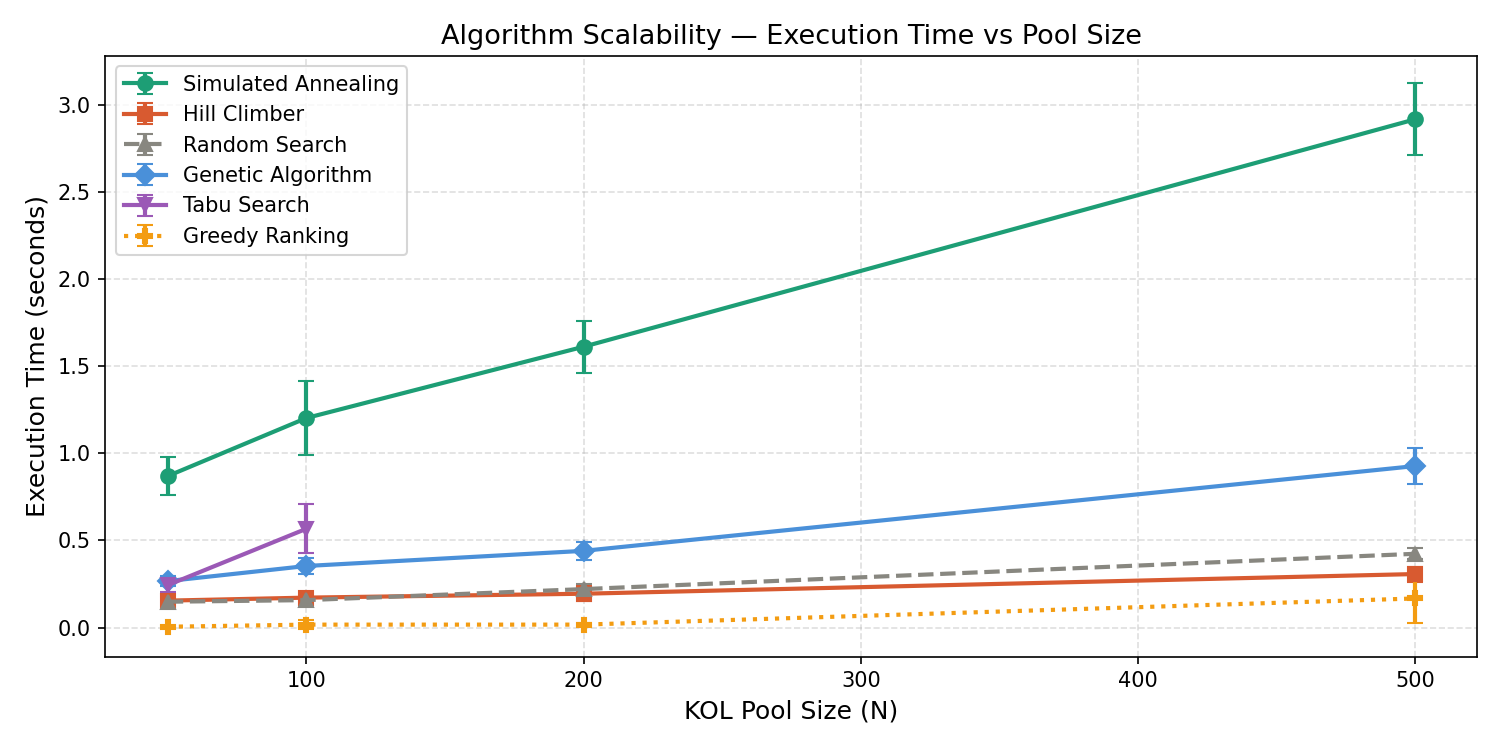
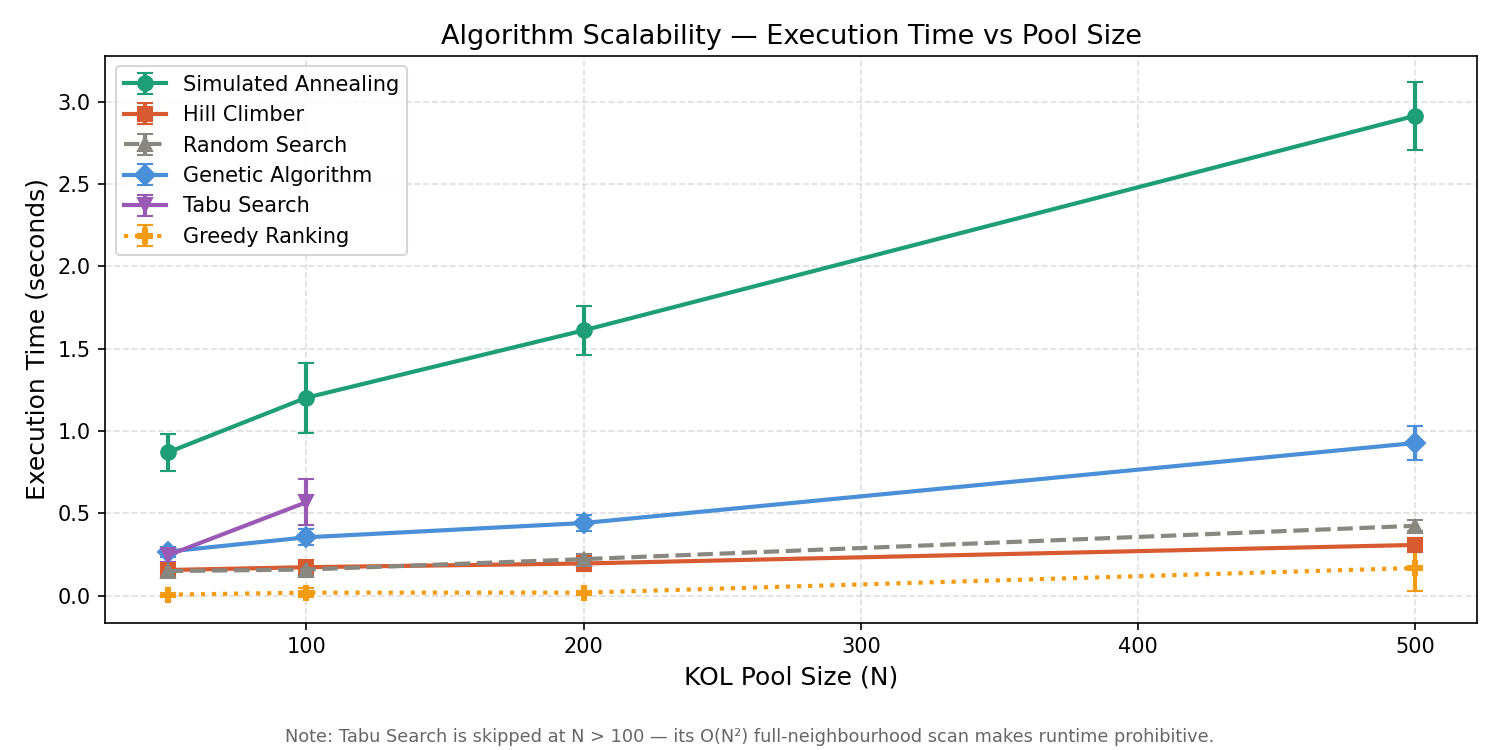
docs(figures): label convergence charts "Best Objective"; annotate TS skip
- The convergence figures plot the search objective (GMV − overlap penalty), not
  raw GMV — relabel the y-axis on convergence.png (run_comparison.py) and
  convergence_panels.png (gen_figures.py) to "Best Objective" so the axis matches
  what's drawn and §3.5's explanation.
- Scalability figures now carry a footnote: "Tabu Search is skipped at N > 100 —
  its O(N²) full-neighbourhood scan makes runtime prohibitive."
- Refactor scalability.py to split benchmark-run from plotting and add a
  `--plot-only` path that regenerates the figures from the existing CSV, so
  restyling never re-runs the wall-clock-noisy benchmark (reported times stay put).

Figures regenerated from existing data; 128 tests pass.

diff --git a/experiments/scalability.py b/experiments/scalability.py
@@ -80,6 +80,82 @@ def run_one(algo_fn, kols, budget, seed, **kwargs):
     return elapsed, gmv
 
 
+_CSV_PATH = "experiments/plots/scalability_results.csv"
+_TS_NOTE = ("Note: Tabu Search is skipped at N > 100 — its O(N²) full-neighbourhood "
+            "scan makes runtime prohibitive.")
+
+
+def _filtered(mean_vals, err_vals):
+    """Return (x, y, err) for the non-None entries, aligned to POOL_SIZES."""
+    xs, ys, es = [], [], []
+    for x, y, e in zip(POOL_SIZES, mean_vals, err_vals):
+        if y is not None:
+            xs.append(x); ys.append(y); es.append(e)
+    return xs, ys, es
+
+
+def _summary_from_csv(csv_path=_CSV_PATH):
+    """Rebuild the plotting `summary` from a results CSV, so figures can be
+    regenerated/restyled WITHOUT re-running the (wall-clock-noisy) benchmark."""
+    rows = {}
+    with open(csv_path, newline="", encoding="utf-8") as f:
+        for r in csv.DictReader(f):
+            rows[(r["Algorithm"], int(r["N"]))] = r
+
+    def _num(v):
+        try:
+            return float(v)
+        except (ValueError, TypeError):
+            return None
+
+    summary = {}
+    for algo_name in ALGO_CONFIGS:
+        summary[algo_name] = {
+            "mean_times": [_num(rows.get((algo_name, N), {}).get("Mean_Time_Sec")) for N in POOL_SIZES],
+            "std_times":  [_num(rows.get((algo_name, N), {}).get("Std_Time_Sec"))  for N in POOL_SIZES],
+            "mean_gmvs":  [_num(rows.get((algo_name, N), {}).get("Mean_GMV"))       for N in POOL_SIZES],
+            "std_gmvs":   [_num(rows.get((algo_name, N), {}).get("Std_GMV"))        for N in POOL_SIZES],
+        }
+    return summary
+
+
+def make_plots(summary):
+    """Render the execution-time and solution-quality figures from a summary."""
+    os.makedirs("experiments/plots", exist_ok=True)
+    os.makedirs("docs/figures", exist_ok=True)
+
+    panels = [
+        ("mean_times", "std_times", "Execution Time (seconds)",
+         "Algorithm Scalability — Execution Time vs Pool Size", None,
+         ["experiments/plots/scalability_time.png", "docs/figures/scalability_time.png"]),
+        ("mean_gmvs", "std_gmvs", "Mean Best GMV (USD)",
+         "Algorithm Scalability — Solution Quality vs Pool Size",
+         plt.FuncFormatter(lambda x, _: f"${x:,.0f}"),
+         ["experiments/plots/scalability_gmv.png", "docs/figures/scalability_gmv.png"]),
+    ]
+    for mean_key, std_key, ylabel, title, yfmt, paths in panels:
+        fig, ax = plt.subplots(figsize=(10, 5))
+        for algo_name, cfg in ALGO_CONFIGS.items():
+            s = summary[algo_name]
+            xs, ys, es = _filtered(s[mean_key], s[std_key])
+            ax.errorbar(xs, ys, yerr=es, label=algo_name, color=cfg["color"],
+                        marker=cfg["marker"], linestyle=cfg["ls"],
+                        linewidth=2, markersize=7, capsize=4)
+        ax.set_xlabel("KOL Pool Size (N)", fontsize=12)
+        ax.set_ylabel(ylabel, fontsize=12)
+        ax.set_title(title, fontsize=13)
+        ax.legend(fontsize=10)
+        ax.grid(True, linestyle="--", alpha=0.4)
+        if yfmt is not None:
+            ax.yaxis.set_major_formatter(yfmt)
+        fig.text(0.5, 0.01, _TS_NOTE, ha="center", fontsize=8.5, color="#666666")
+        fig.tight_layout(rect=[0, 0.045, 1, 1])
+        for path in paths:
+            fig.savefig(path, dpi=150)
+        plt.close(fig)
+        print(f"[OK] {paths[1]}")
+
+
 def run_scalability_experiment():
     os.makedirs("experiments/plots", exist_ok=True)
     os.makedirs("docs/figures", exist_ok=True)
@@ -142,52 +218,7 @@ def run_scalability_experiment():
             "std_gmvs":   [np.std( results[algo_name][N]["gmvs"])  if results[algo_name][N]["gmvs"]  else None for N in POOL_SIZES],
         }
 
-    def _filtered(vals):
-        """Return (x, y, err) only for non-None entries."""
-        xs, ys, es = [], [], []
-        for x, y, e in zip(POOL_SIZES, vals[0], vals[1]):
-            if y is not None:
-                xs.append(x); ys.append(y); es.append(e)
-        return xs, ys, es
-
-    # ── Plot 1: Execution Time ────────────────────────────────────
-    fig, ax = plt.subplots(figsize=(10, 5))
-    for algo_name, cfg in ALGO_CONFIGS.items():
-        s = summary[algo_name]
-        xs, ys, es = _filtered((s["mean_times"], s["std_times"]))
-        ax.errorbar(xs, ys, yerr=es, label=algo_name, color=cfg["color"],
-                    marker=cfg["marker"], linestyle=cfg["ls"],
-                    linewidth=2, markersize=7, capsize=4)
-    ax.set_xlabel("KOL Pool Size (N)", fontsize=12)
-    ax.set_ylabel("Execution Time (seconds)", fontsize=12)
-    ax.set_title("Algorithm Scalability — Execution Time vs Pool Size", fontsize=13)
-    ax.legend(fontsize=10)
-    ax.grid(True, linestyle="--", alpha=0.4)
-    fig.tight_layout()
-    for path in ["experiments/plots/scalability_time.png", "docs/figures/scalability_time.png"]:
-        fig.savefig(path, dpi=150)
-    plt.close(fig)
-    print("[OK] Time chart → docs/figures/scalability_time.png")
-
-    # ── Plot 2: Final GMV ─────────────────────────────────────────
-    fig, ax = plt.subplots(figsize=(10, 5))
-    for algo_name, cfg in ALGO_CONFIGS.items():
-        s = summary[algo_name]
-        xs, ys, es = _filtered((s["mean_gmvs"], s["std_gmvs"]))
-        ax.errorbar(xs, ys, yerr=es, label=algo_name, color=cfg["color"],
-                    marker=cfg["marker"], linestyle=cfg["ls"],
-                    linewidth=2, markersize=7, capsize=4)
-    ax.set_xlabel("KOL Pool Size (N)", fontsize=12)
-    ax.set_ylabel("Mean Best GMV (USD)", fontsize=12)
-    ax.set_title("Algorithm Scalability — Solution Quality vs Pool Size", fontsize=13)
-    ax.legend(fontsize=10)
-    ax.grid(True, linestyle="--", alpha=0.4)
-    ax.yaxis.set_major_formatter(plt.FuncFormatter(lambda x, _: f"${x:,.0f}"))
-    fig.tight_layout()
-    for path in ["experiments/plots/scalability_gmv.png", "docs/figures/scalability_gmv.png"]:
-        fig.savefig(path, dpi=150)
-    plt.close(fig)
-    print("[OK] GMV chart  → docs/figures/scalability_gmv.png")
+    make_plots(summary)
 
     # ── Summary table ─────────────────────────────────────────────
     print("\n" + "═" * 75)
@@ -206,4 +237,10 @@ def run_scalability_experiment():
 
 
 if __name__ == "__main__":
-    run_scalability_experiment()
+    # `--plot-only` restyles/regenerates the figures from the existing CSV without
+    # re-running the wall-clock-noisy benchmark (keeps the reported times stable).
+    if "--plot-only" in sys.argv:
+        make_plots(_summary_from_csv())
+        print("[OK] Figures regenerated from", _CSV_PATH)
+    else:
+        run_scalability_experiment()

diff --git a/experiments/run_comparison.py b/experiments/run_comparison.py
@@ -102,7 +102,7 @@ def run_experiment(budget=5000.0, seed=42, use_demo_case=True):
         plt.plot(_pad(hist), label=name, color=ALGO_COLORS[name],
                  linewidth=lw, linestyle=ls, alpha=0.85)
     plt.xlabel("Iterations")
-    plt.ylabel("Best GMV (USD)")
+    plt.ylabel("Best Objective (GMV − overlap penalty, USD)")
     plt.title("Algorithm Convergence Comparison (demo pool, commission-rate model)")
     plt.gca().yaxis.set_major_formatter(plt.FuncFormatter(lambda x, _: f"${x:,.0f}"))
     plt.legend(fontsize=9)

diff --git a/experiments/gen_figures.py b/experiments/gen_figures.py
@@ -137,7 +137,7 @@ def gen_convergence_panels():
 
         ax.set_title(f"N = {N}  (budget = ${N*25:,})", fontsize=11)
         ax.set_xlabel("Iterations", fontsize=10)
-        ax.set_ylabel("Best GMV (USD)", fontsize=10)
+        ax.set_ylabel("Best Objective (USD)", fontsize=10)
         ax.yaxis.set_major_formatter(plt.FuncFormatter(lambda v, _: f"${v:,.0f}"))
         ax.grid(True, linestyle="--", alpha=0.35)
         ax.legend(fontsize=8)
